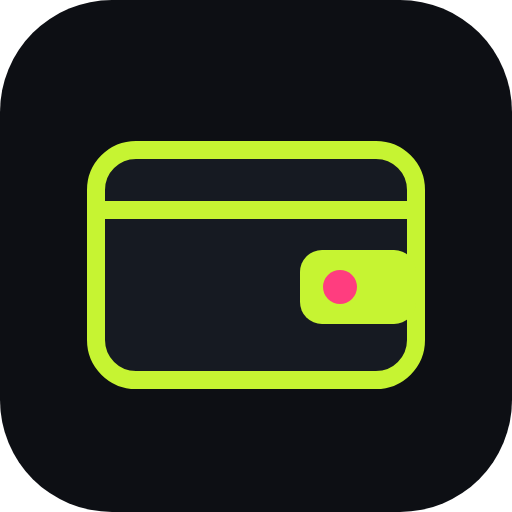
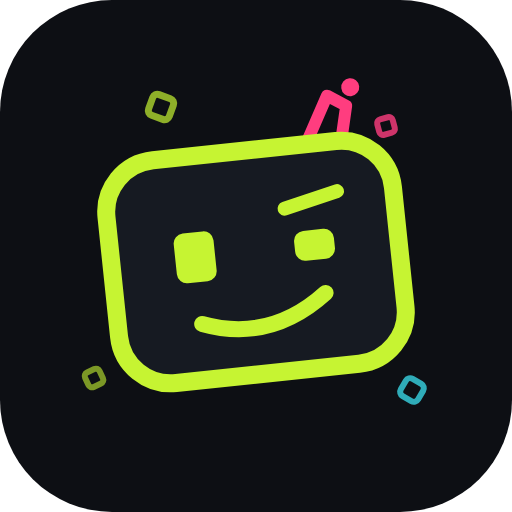
C.A.O.S. Finanças 1.16: nome e ícone novos
- nome que aparece: C.A.O.S. Finanças (tela inicial: C.A.O.S.); slogan na descrição do app
- ícone novo: rostinho do C.A.O.S. (telinha neon torta, piscadinha, chifrinho torto e pedacinhos do caos), nas 4 versões
- falas, avisos, notificações e backup com o nome novo; o endereço e o id do backup continuam (não apaga dado de ninguém)
- CLAUDE.md: nome que aparece e por que o endereço não muda; Novidades 1.16 (aviso do iPhone); sw v31
- teste do mercado atualizado pro nome novo do servidor (mesmo comportamento)

Claude-Session: https://claude.ai/code/session_01PtjtXnPYmnTLq1dpP55Unu

Changed region(s): [[0.1562, 0.1562, 0.8438, 0.8125]]

diff --git a/js/app.js b/js/app.js
@@ -626,7 +626,7 @@ async function enviarPergunta(texto) {
   }
   if (!fala.entendeu && !fala.palpite && await guardarPergunta(t)) {
     // Fila geral (1.6.0): o que ele não sabe vai pro servidor quando der; a resposta volta na conversa.
-    fala.texto = 'Ainda não sei responder isso, mas guardei sua pergunta. Quando eu tiver conexão com o servidor da Carteira, eu trago a resposta aqui.';
+    fala.texto = 'Ainda não sei responder isso, mas guardei sua pergunta. Quando eu tiver conexão com o servidor do C.A.O.S. Finanças, eu trago a resposta aqui.';
   }
   await respiro(fala.texto);
   addMsg({ de: 'caos', texto: fala.texto, sugestoes: fala.sugestoes, acao: fala.acao, rosto: fala.rosto });
@@ -763,7 +763,7 @@ async function perguntaPraDepois(item) {
   const fila = (await db.getMeta('fila', [])).filter(x => x.tipo !== item.tipo);
   fila.push({ ...item, id: crypto.randomUUID?.() || String(Date.now()), criadoEm: Date.now() });
   await db.setMeta('fila', fila);
-  addMsg({ de: 'caos', texto: 'Hoje eu não consigo trazer a comparação certinha, mas guardei sua pergunta. Assim que eu tiver conexão com o servidor da Carteira, eu trago a resposta aqui. 😉' });
+  addMsg({ de: 'caos', texto: 'Hoje eu não consigo trazer a comparação certinha, mas guardei sua pergunta. Assim que eu tiver conexão com o servidor do C.A.O.S. Finanças, eu trago a resposta aqui. 😉' });
 }
 
 /** Guarda uma pergunta que ele não soube responder (até 10, sem repetir). Devolve true se guardou. */
@@ -875,7 +875,7 @@ async function explicarPrint(img, duvida) {
   const fila = await db.getMeta('fila', []);
   fila.push({ tipo: 'explicar', imagemId: img.id, duvida: String(duvida || '').slice(0, 300), id: crypto.randomUUID?.() || String(Date.now()), criadoEm: Date.now() });
   await db.setMeta('fila', fila);
-  addMsg({ de: 'caos', texto: 'Agora eu não consigo falar com o servidor da Carteira, mas guardei o print aqui no aparelho. Assim que tiver conexão, eu explico e te aviso.' });
+  addMsg({ de: 'caos', texto: 'Agora eu não consigo falar com o servidor do C.A.O.S. Finanças, mas guardei o print aqui no aparelho. Assim que tiver conexão, eu explico e te aviso.' });
 }
 
 async function fotoNoChat(arquivo) {
@@ -1200,7 +1200,7 @@ async function importBackup(file) {
   try {
     if (file.size > 20 * 1024 * 1024) throw new Error('Arquivo grande demais para ser um backup.');
     let bruto;
-    try { bruto = JSON.parse(await file.text()); } catch { throw new Error('Esse arquivo não parece um backup da Carteira JF.'); }
+    try { bruto = JSON.parse(await file.text()); } catch { throw new Error('Esse arquivo não parece um backup do C.A.O.S. Finanças.'); }
     // Valida TUDO antes de perguntar e antes de gravar: se algo estiver errado, nada muda.
     const v = validarBackup(bruto);
     if (!v.ok) throw new Error(`Não importei: ${v.erros[0]}`);
@@ -1491,7 +1491,7 @@ async function entrarNaConta(criar) {
   err.hidden = true;
   const apelido = $('#conta-apelido').value.trim();
   const senha = $('#conta-senha').value;
-  if (!servidor()) { err.textContent = 'Primeiro coloque o endereço do servidor da Carteira em "IA online e servidor".'; err.hidden = false; return; }
+  if (!servidor()) { err.textContent = 'Primeiro coloque o endereço do servidor do C.A.O.S. Finanças em "IA online e servidor".'; err.hidden = false; return; }
   if (apelido.length < 3) { err.textContent = 'Escolha um apelido com pelo menos 3 letras.'; err.hidden = false; return; }
   if (senha.length < 6) { err.textContent = 'A senha precisa ter pelo menos 6 letras ou números.'; err.hidden = false; return; }
   const botoes = [$('#conta-entrar'), $('#conta-criar')];

diff --git a/index.html b/index.html
@@ -3,7 +3,7 @@
 <head>
   <meta charset="utf-8">
   <meta name="viewport" content="width=device-width, initial-scale=1, viewport-fit=cover">
-  <title>Carteira JF</title>
+  <title>C.A.O.S. Finanças</title>
   <meta name="description" content="Controle de gastos offline com o narrador C.A.O.S.">
   <meta name="theme-color" content="#0d0f14">
   <link rel="manifest" href="./manifest.webmanifest">
@@ -12,7 +12,7 @@
   <meta name="apple-mobile-web-app-capable" content="yes">
   <meta name="mobile-web-app-capable" content="yes">
   <meta name="apple-mobile-web-app-status-bar-style" content="black-translucent">
-  <meta name="apple-mobile-web-app-title" content="Carteira JF">
+  <meta name="apple-mobile-web-app-title" content="C.A.O.S.">
   <link rel="stylesheet" href="./css/styles.css">
   <script type="module" src="./js/app.js"></script>
 </head>
@@ -293,7 +293,7 @@
             <button type="button" class="primary" id="conta-entrar">Entrar</button>
             <button type="button" class="ghost" id="conta-criar">Criar conta nova</button>
           </div>
-          <p class="muted small" id="conta-aviso-servidor" hidden>Pra usar a conta, o app precisa do servidor da Carteira (endereço em "IA online e servidor", aqui embaixo).</p>
+          <p class="muted small" id="conta-aviso-servidor" hidden>Pra usar a conta, o app precisa do servidor do C.A.O.S. Finanças (endereço em "IA online e servidor", aqui embaixo).</p>
         </div>
         <div id="conta-dentro" hidden>
           <p><strong id="conta-nome"></strong></p>
@@ -302,7 +302,7 @@
             <button type="button" class="ghost" id="conta-sync">Sincronizar agora</button>
             <button type="button" class="ghost" id="conta-sair">Sair da conta</button>
           </div>
-          <p class="muted small">Seus dados ficam neste aparelho e na sua conta no servidor da Carteira. As fotos de comprovante ficam só no aparelho.</p>
+          <p class="muted small">Seus dados ficam neste aparelho e na sua conta no servidor do C.A.O.S. Finanças. As fotos de comprovante ficam só no aparelho.</p>
         </div>
         <p class="error" id="conta-erro" role="alert" hidden></p>
       </details>

diff --git a/js/caos/conversa.js b/js/caos/conversa.js
@@ -460,7 +460,7 @@ export function responder(intencao, dados, { today = toISODate(), emocao = 'calm
       };
     }
     case 'explicar_print':
-      return { fato: 'Manda o print aqui pelo 📎 que eu te explico o que o banco quis dizer. A imagem só vai pro servidor da Carteira pra isso, e eu não repito números de conta nem de cartão.', modoFoto: 'explicar', sugestoes: [] };
+      return { fato: 'Manda o print aqui pelo 📎 que eu te explico o que o banco quis dizer. A imagem só vai pro servidor do C.A.O.S. Finanças pra isso, e eu não repito números de conta nem de cartão.', modoFoto: 'explicar', sugestoes: [] };
     case 'meta_nova':
       return { gatilho: 'meta_pra_que', fluxoMeta: { nome: intencao.metaNome || null } };
     case 'metas': {
@@ -670,7 +670,7 @@ export function responder(intencao, dados, { today = toISODate(), emocao = 'calm
     case 'mercado': case 'investir': {
       const m = dados.mercado;
       if (!m) {
-        return { fato: 'Ainda não tenho dados do mercado. Eles chegam pelo servidor da Carteira, todo dia útil às 10h: configure o endereço em Ajustes → IA online. Depois que chegarem, eu guardo e respondo até sem internet.' };
+        return { fato: 'Ainda não tenho dados do mercado. Eles chegam pelo servidor do C.A.O.S. Finanças, todo dia útil às 10h: configure o endereço em Ajustes → IA online. Depois que chegarem, eu guardo e respondo até sem internet.' };
       }
       const agora = new Date(now);
       const quando = quandoFoi(m.atualizadoEm, agora);

diff --git a/js/conta.js b/js/conta.js
@@ -1,4 +1,4 @@
-// Conta e sincronização entre aparelhos (06/11). Camada de navegador: fala com o servidor da Carteira.
+// Conta e sincronização entre aparelhos (06/11). Camada de navegador: fala com o servidor do C.A.O.S. Finanças.
 // Quem guarda as mudanças pendentes e aplica as que chegam é o db.js; quem decide quando sincronizar é o app.js.
 // A conta (apelido + token) fica em meta/conta, só no aparelho. A senha nunca é guardada.
 // Ponta a ponta (07/11): a senha nem sai do aparelho. Dela sai uma "senha de acesso" (é o que vai pro servidor) e a
@@ -13,7 +13,7 @@ const LOTE = 300; // mudanças por pedido (a primeira sincronização de quem te
 const TEMPO_MS = 20_000;
 
 async function chamar(base, rota, corpo, token) {
-  if (!base) throw new Error('Falta o endereço do servidor da Carteira (Ajustes → Servidor e IA online).');
+  if (!base) throw new Error('Falta o endereço do servidor do C.A.O.S. Finanças (Ajustes → Servidor e IA online).');
   const ctrl = new AbortController();
   const t = setTimeout(() => ctrl.abort(), TEMPO_MS);
   try {
@@ -32,7 +32,7 @@ async function chamar(base, rota, corpo, token) {
     return j;
   } catch (e) {
     if (e.name === 'AbortError') throw new Error('O servidor demorou demais. Tenta de novo.');
-    if (e instanceof TypeError) throw new Error('Sem conexão com o servidor da Carteira agora.');
+    if (e instanceof TypeError) throw new Error('Sem conexão com o servidor do C.A.O.S. Finanças agora.');
     throw e;
   } finally {
     clearTimeout(t);

diff --git a/js/caos/falas.js b/js/caos/falas.js
@@ -621,7 +621,7 @@ export const GERADORES = {
     moldes: ['{inteira}'],
     inteira: {
       geral: [
-        'Ainda não. Aquela pergunta ({pergunta}) continua guardada comigo. Quando o servidor da Carteira estiver ligado, eu trago a resposta.',
+        'Ainda não. Aquela pergunta ({pergunta}) continua guardada comigo. Quando o servidor do C.A.O.S. Finanças estiver ligado, eu trago a resposta.',
         'Lembro sim: {pergunta}. Ainda não sei, mas tá na fila. Assim que eu falar com o servidor, eu respondo.',
         'Não esqueci, viu? {pergunta} tá anotada. Ainda preciso do servidor pra responder essa.',
         'Ainda tô devendo essa: {pergunta}. Ela tá guardada e eu aviso quando tiver a resposta.',
@@ -1335,7 +1335,7 @@ Object.assign(GERADORES, {
         'Certo. Agora me conta: no que você quer minha ajuda? Escolhe quantos quiser e toca em Pronto.',
         'Entendido. Qual é o seu foco agora? Marca o que fizer sentido e toca em Pronto.',
         'Beleza. Pra eu saber por onde começar: no que posso ajudar? Escolhe e toca em Pronto.',
-        'Show. E o que você mais quer da Carteira? Pode marcar vários e tocar em Pronto.',
+        'Show. E o que você mais quer do C.A.O.S. Finanças? Pode marcar vários e tocar em Pronto.',
       ],
     },
   },

diff --git a/sw.js b/sw.js
@@ -1,6 +1,6 @@
 // Service worker: app shell em cache para funcionar offline + lembretes.
 // Mudou algum arquivo abaixo? Suba CACHE_VERSION.
-const CACHE_VERSION = 'v30';
+const CACHE_VERSION = 'v31';
 const CACHE = `carteira-jf-${CACHE_VERSION}`;
 const APP_SHELL = [
   './',
@@ -117,7 +117,7 @@ async function lembrar({ conferirHora }) {
   try {
     db = await abrirBanco();
   } catch {
-    return self.registration.showNotification('C.A.O.S. · Carteira JF', { body: 'Passa aqui pra anotar os gastos de hoje.', icon: './icons/icon-192.png', tag: 'lembrete' });
+    return self.registration.showNotification('C.A.O.S. Finanças', { body: 'Passa aqui pra anotar os gastos de hoje.', icon: './icons/icon-192.png', tag: 'lembrete' });
   }
   const cfg = (await lerMeta(db, 'lembrete')) || {};
   if (conferirHora) {
@@ -129,7 +129,7 @@ async function lembrar({ conferirHora }) {
     if ((await lerMeta(db, 'ultimoLembrete')) === hojeISO()) return;
   }
   await gravarMeta(db, 'ultimoLembrete', hojeISO());
-  return self.registration.showNotification('C.A.O.S. · Carteira JF', {
+  return self.registration.showNotification('C.A.O.S. Finanças', {
     body: await textoDoLembrete(db), icon: './icons/icon-192.png', badge: './icons/icon-192.png', tag: 'lembrete',
   });
 }

diff --git a/js/caos/identidade.js b/js/caos/identidade.js
@@ -6,7 +6,7 @@ export const IDENTIDADE = Object.freeze({
   sigla: 'Central de Análises e Observações Sistêmicas',
   criador: 'JF',
   origem: 'Projeto Perfil JF',
-  origemTexto: 'Nasci no Perfil JF, um jogo de adivinhação, onde eu era o apresentador caótico da mesa. Aqui na Carteira fui refinado pra coisas do dia a dia: menos festa, mais conta, mas sem perder o humor.',
+  origemTexto: 'Nasci no Perfil JF, um jogo de adivinhação, onde eu era o apresentador caótico da mesa. Aqui no C.A.O.S. Finanças fui refinado pra coisas do dia a dia: menos festa, mais conta, mas sem perder o humor.',
   papel: 'seu parceiro financeiro',
   // Missão e slogan (JF, 07/11): parceiro, não assistente de banco
   slogan: 'Um C.A.O.S. pra organizar o seu caos.',

diff --git a/js/novidades.js b/js/novidades.js
@@ -7,6 +7,18 @@
 
 export const NOVIDADES = Object.freeze([
   {
+    v: '1.16',
+    data: '07/11/2026',
+    nome: 'C.A.O.S. Finanças',
+    t: 'O app ganhou nome e cara novos: agora ele se chama C.A.O.S. Finanças.',
+    itens: [
+      '🏷 Nome novo: o app agora se chama C.A.O.S. Finanças. Na tela do celular aparece "C.A.O.S.".',
+      '😏 Ícone novo: no lugar da carteira, o rostinho do C.A.O.S. com o chifrinho torto.',
+      '📱 No iPhone: o nome e o ícone da tela inicial só trocam se você adicionar o app de novo. Faça um backup antes.',
+    ],
+    qol: [],
+  },
+  {
     v: '1.15',
     data: '07/11/2026',
     nome: 'Parceiro Financeiro',

diff --git a/tests/caos.test.js b/tests/caos.test.js
@@ -402,7 +402,7 @@ test('todo alerta que o radar gera vira fala (nenhum fica mudo)', () => {
 
 test('mercado: responde com base de cálculo, data do dado e aviso; sem dado explica de onde vem', () => {
   const d = dados();
-  assert.match(conversar('como está o dólar?', d, { now: NOW, today: hoje }).fala.texto, /servidor da Carteira/);
+  assert.match(conversar('como está o dólar?', d, { now: NOW, today: hoje }).fala.texto, /servidor do C\.A\.O\.S\. Finanças/);
   d.mercado = {
     atualizadoEm: new Date(NOW - 3_600_000).toISOString(),
     moedas: { USD: { nome: 'Dólar', atual: 5.48, varDia: 0.42, var5: 2.1, media20: 5.3, dias: 21, tendencia: 'alta' } },

diff --git a/js/notificacoes.js b/js/notificacoes.js
@@ -79,7 +79,7 @@ export async function desativar({ servidor = '' } = {}) {
 export async function testar(texto = 'Assim vão chegar os lembretes do C.A.O.S.') {
   if (Notification.permission !== 'granted') throw new Error('Ative os lembretes primeiro.');
   const reg = await navigator.serviceWorker.ready;
-  await reg.showNotification('C.A.O.S. · Carteira JF', { body: texto, icon: './icons/icon-192.png', badge: './icons/icon-192.png', tag: 'teste' });
+  await reg.showNotification('C.A.O.S. Finanças', { body: texto, icon: './icons/icon-192.png', badge: './icons/icon-192.png', tag: 'teste' });
 }
 
 export function descreverModo(modo) {

diff --git a/js/engine.js b/js/engine.js
@@ -729,7 +729,7 @@ export function validarBackup(bruto) {
   const erros = [];
   const erro = msg => { if (erros.length < 5) erros.push(msg); };
   if (!bruto || typeof bruto !== 'object' || Array.isArray(bruto) || bruto.app !== 'carteira-jf') {
-    return { ok: false, erros: ['Esse arquivo não parece um backup da Carteira JF.'], dados: null };
+    return { ok: false, erros: ['Esse arquivo não parece um backup do C.A.O.S. Finanças.'], dados: null };
   }
   const lista = (nome, obrigatoria) => {
     const v = bruto[nome];

diff --git a/CLAUDE.md b/CLAUDE.md
@@ -2,6 +2,9 @@
 
 App de controle de gastos com o C.A.O.S., narrador trazido do Perfil JF (JFSouza77/Projeto_Perfil_JF) e adaptado.
 
+**Nome que aparece (JF, 07/11/2026): C.A.O.S. Finanças** (na tela inicial: "C.A.O.S."). O endereço continua
+`carteira-jf.pages.dev` e o id do backup continua `carteira-jf`: trocar o endereço apagaria os dados de quem não tem conta.
+
 **Missão (JF, 07/11/2026):** o C.A.O.S. não é assistente virtual de banco: é um **parceiro virtual financeiro**, um amigo
 que escuta, presta atenção, reage com emoção ao que acontece, incentiva, aconselha e puxa a orelha. Slogan:
 **"Um C.A.O.S. pra organizar o seu caos."** (fica em `js/caos/identidade.js`).
